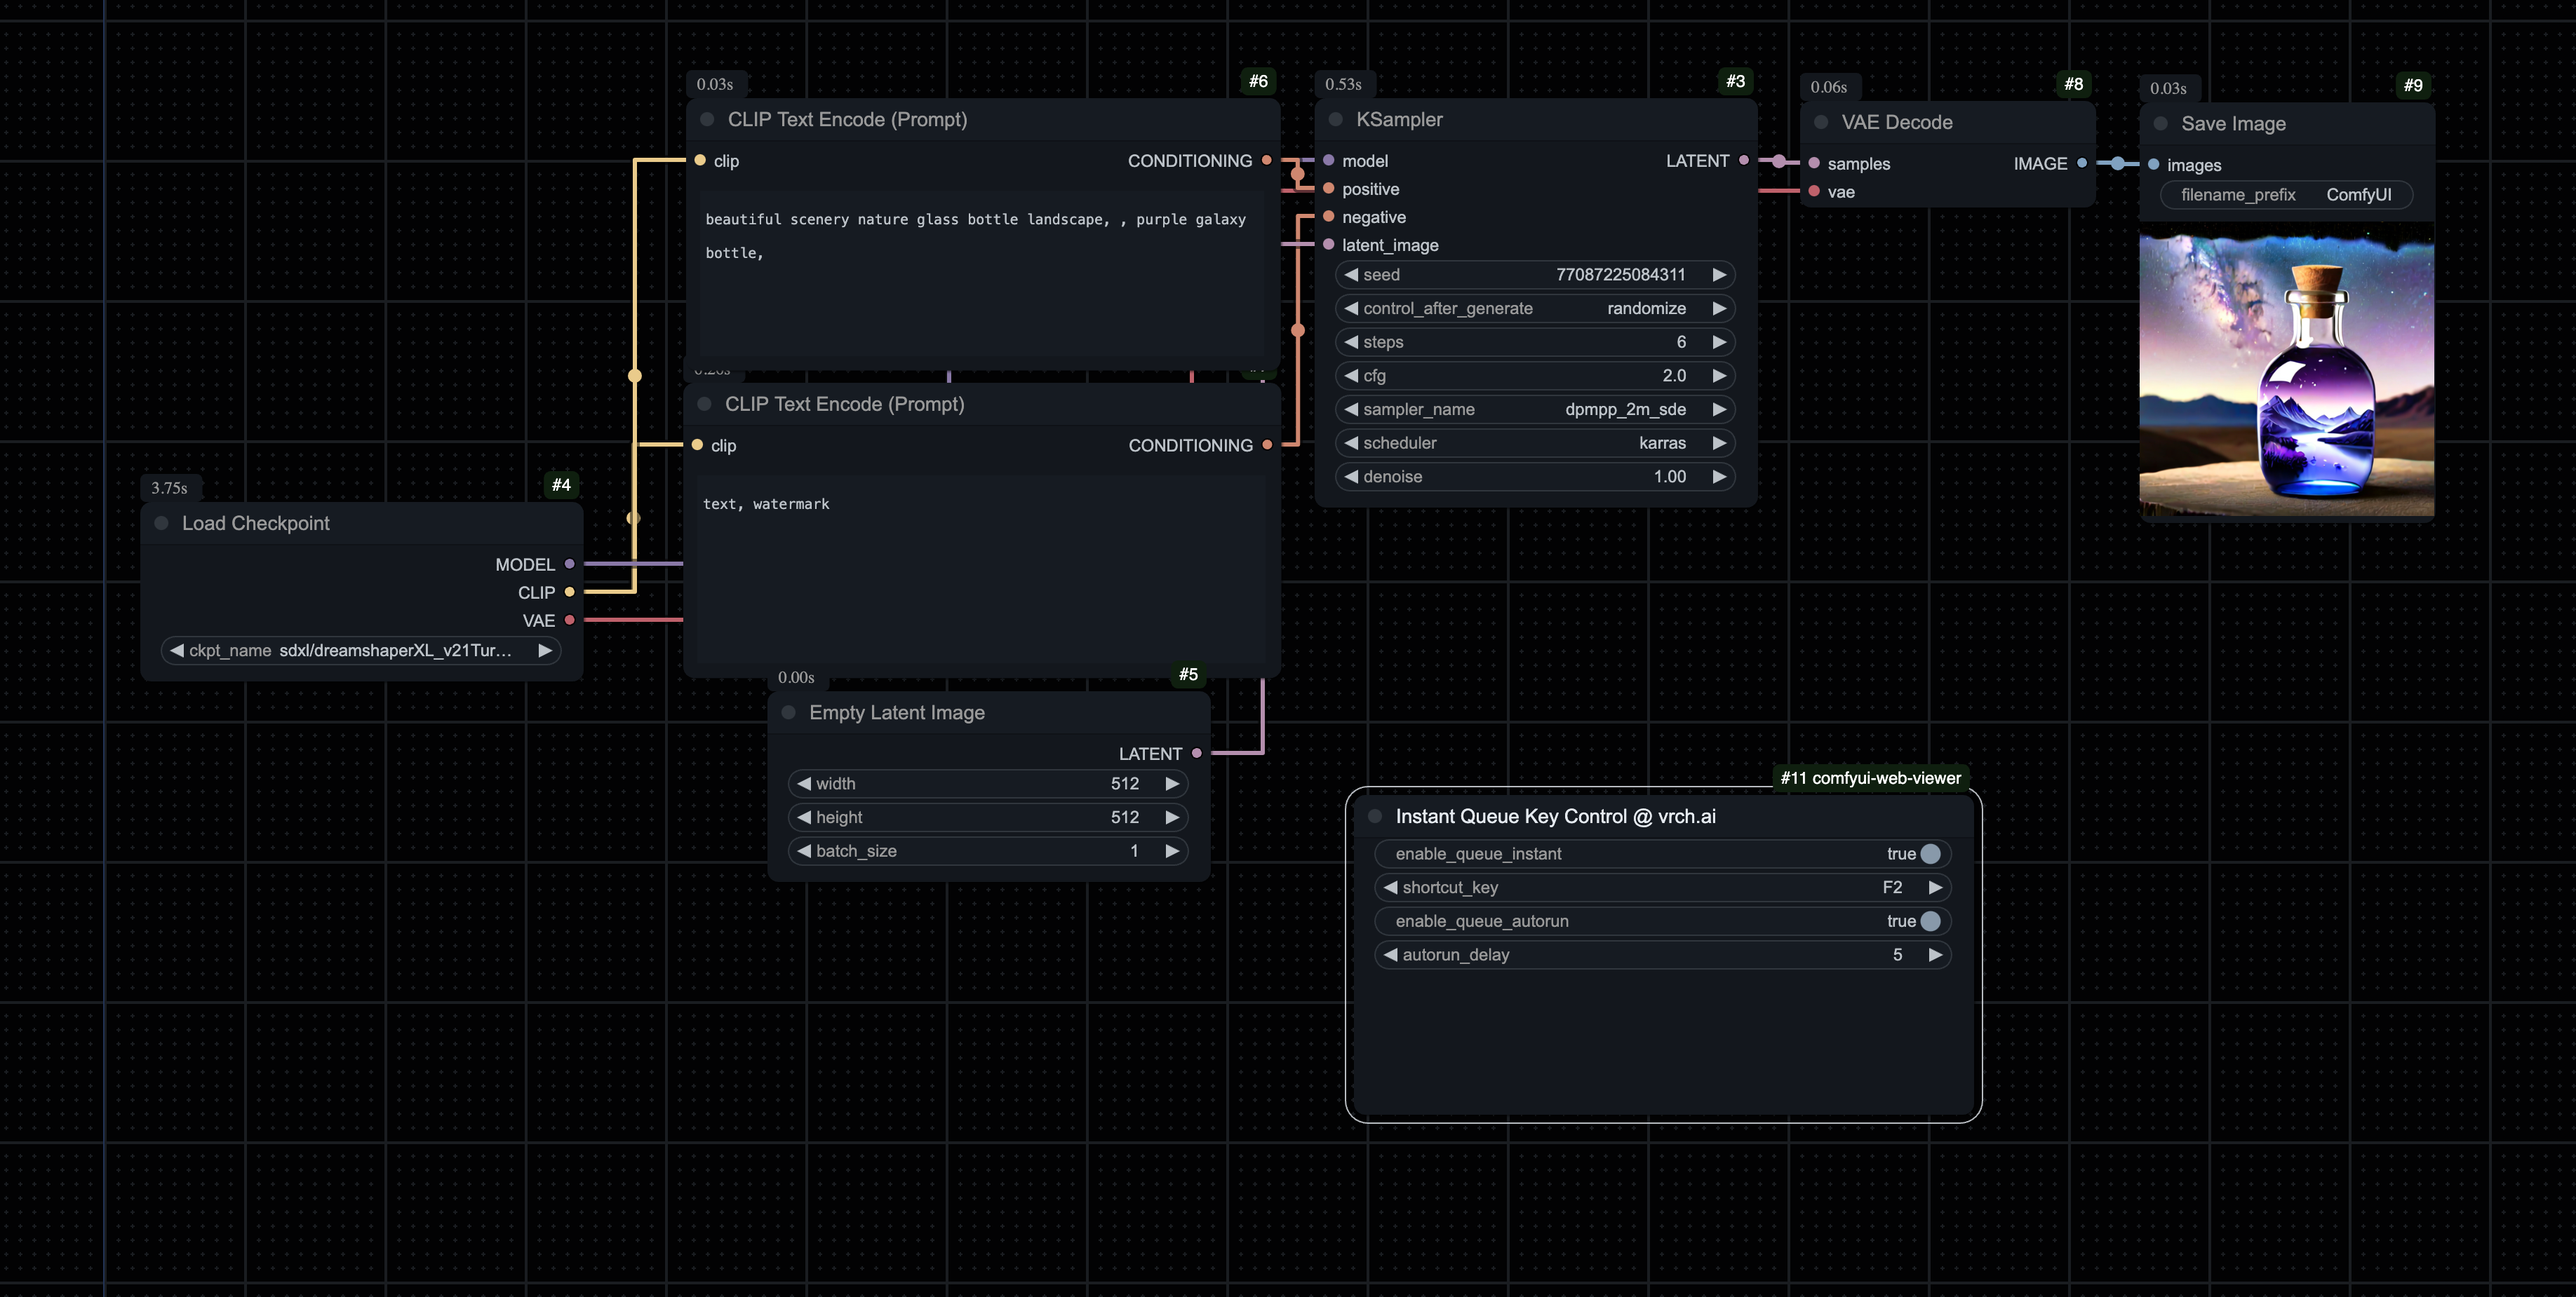
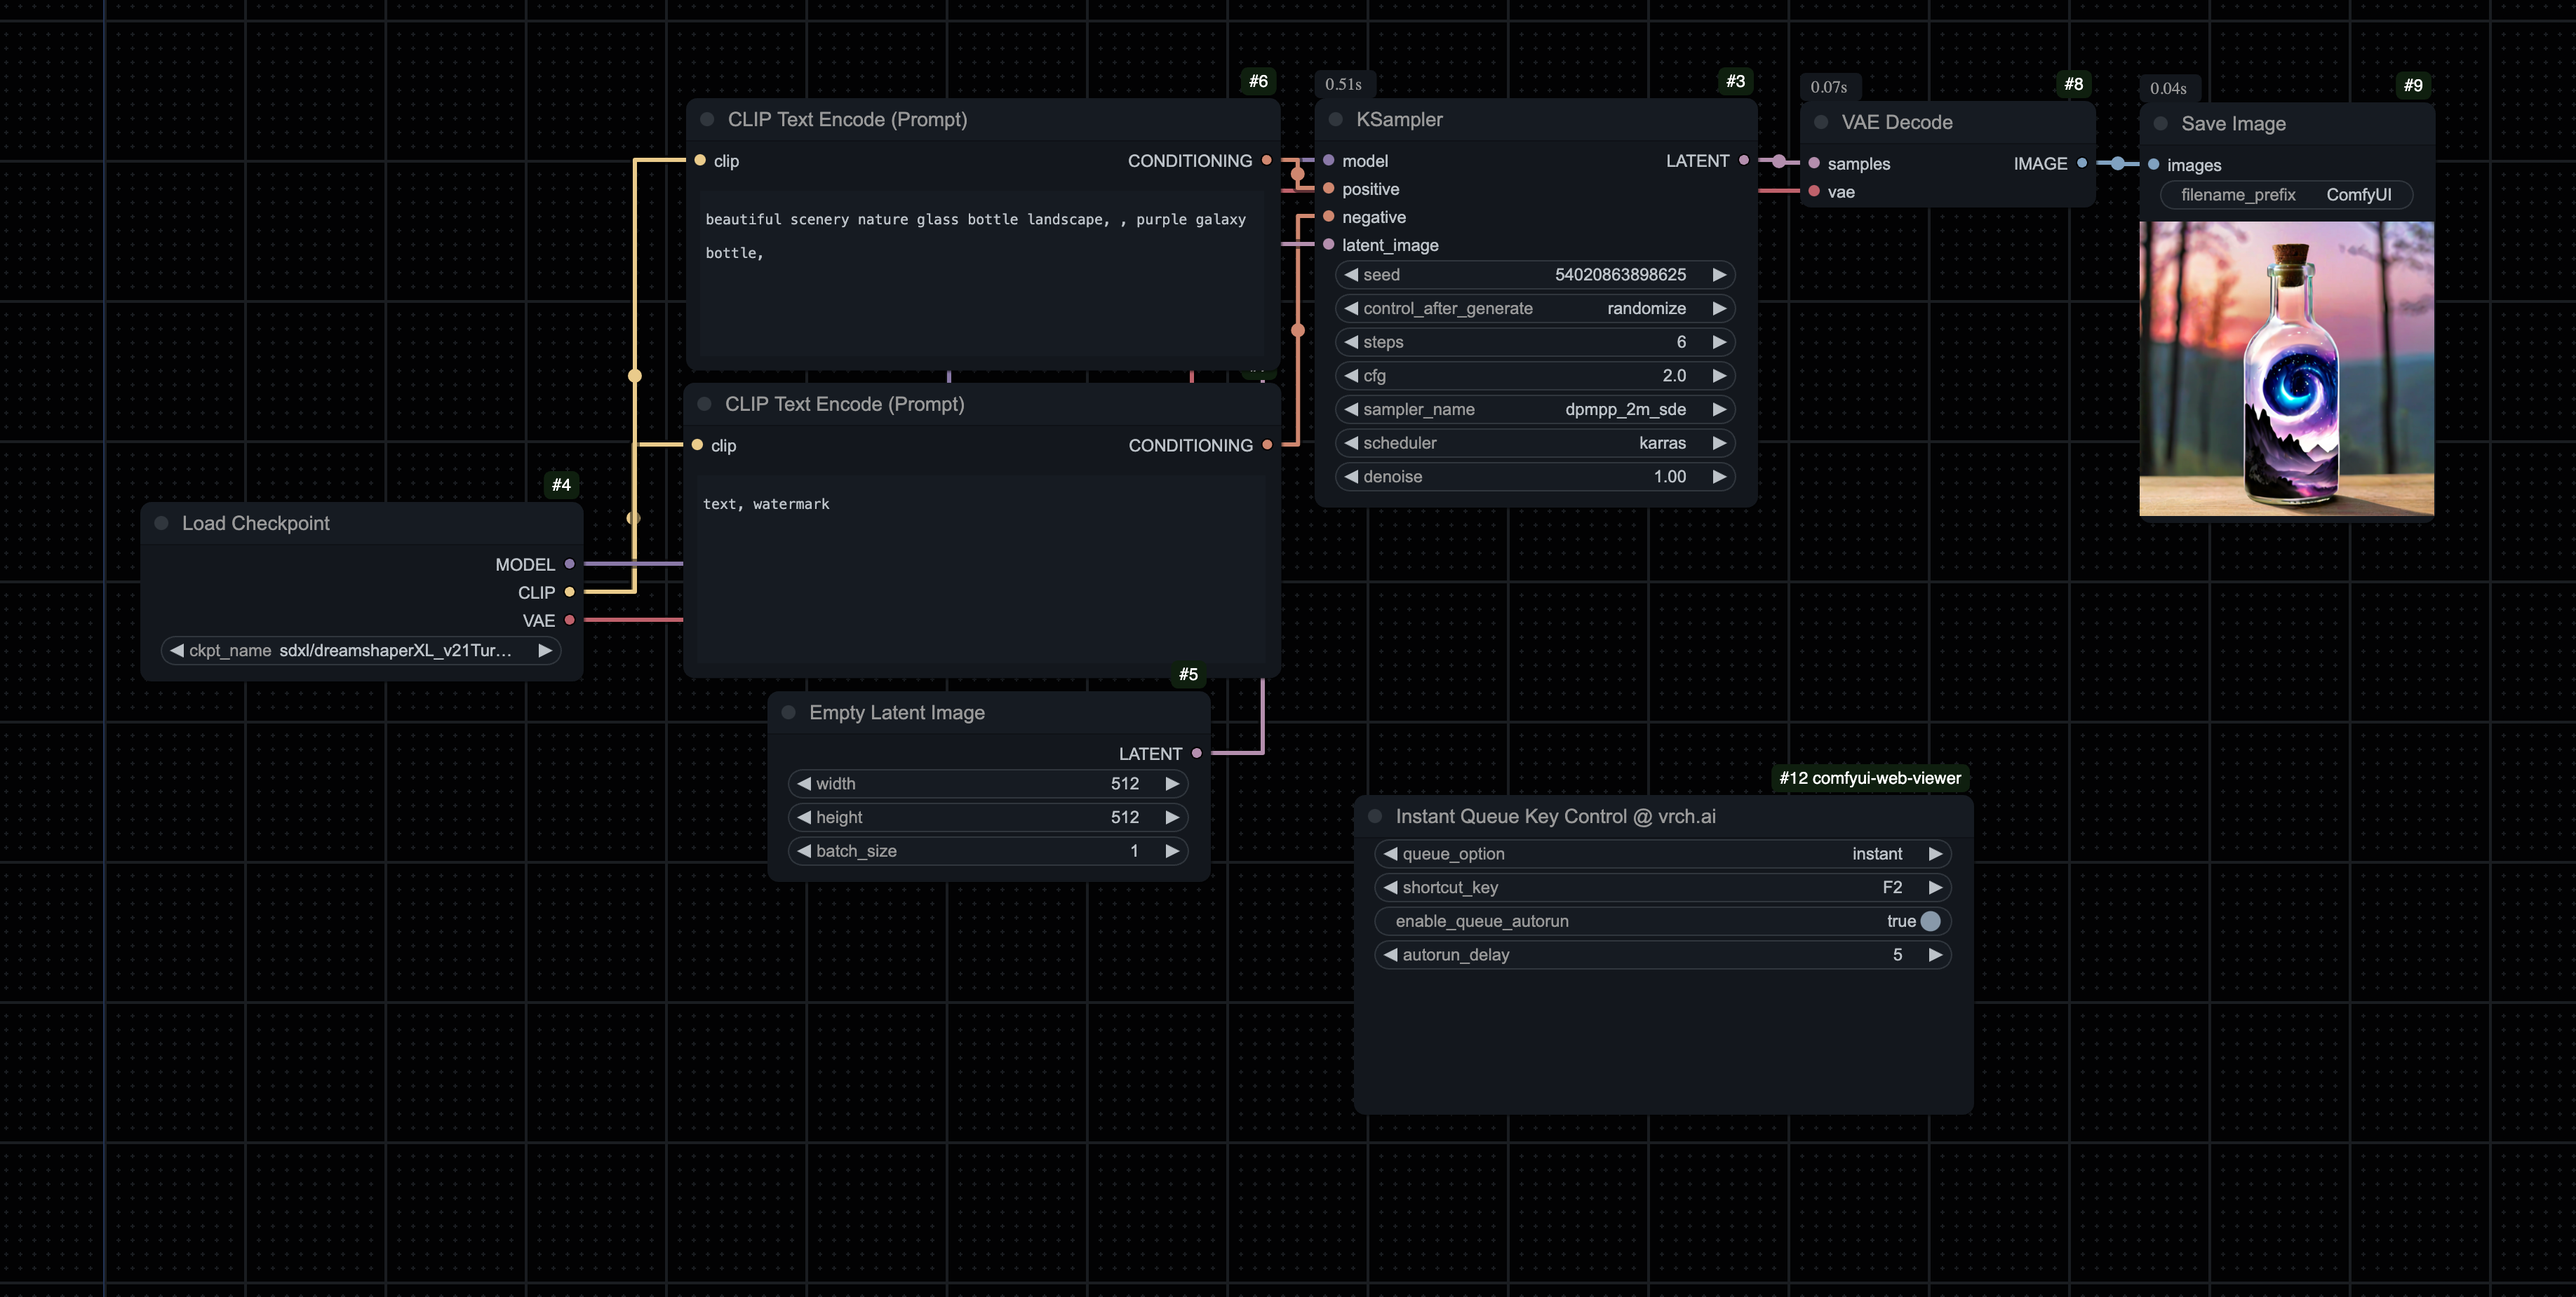
update workflow, screenshot and documentation

diff --git a/docs/key_control_nodes.md b/docs/key_control_nodes.md
@@ -110,15 +110,15 @@ Ensure the ComfyUI window/tab is focused when using the shortcut key to prevent 
 1. **Add the `Instant Queue Key Control @ vrch.ai` to your ComfyUI workflow.**
 
 2. **Configure the Node:**
-   - **Enable Queue Instant (`enable_queue_instant`):** Sets the initial state of the instant queue toggle. Default is `False`.
-   - **Shortcut Key (`shortcut_key`):** Select a function key (`F1` to `F12`) as the shortcut key to toggle the instant queue functionality on or off. Default is `F2`.
+   - **Queue Option (`queue_option`):** Options of the initial state of the queue status, including `once`, `instant` and `change`. Default is `instant`.
+   - **Shortcut Key (`shortcut_key`):** Select a function key (`F1` to `F12`) as the shortcut key to switch the queue option from one to another. Default is `F2`.
    - **Enable Queue Autorun (`enable_queue_autorun`):** Toggle whether the queue will automatically run after a delay when activated. Default is `False`.
    - **Autorun Delay (`autorun_delay`):** Sets the delay (in seconds) before the queue automatically triggers when `enable_queue_autorun` is enabled. The value ranges from 1 to 60 seconds, with a default of 5 seconds.
 
-3. **Toggle Instant Queue:**
+3. **Toggle Queue Option:**
    - **Using Shortcut Key:**
-     - Pressing the chosen `shortcut_key` (e.g., `F2`) toggles the `enable_queue_instant` state between **Enabled** and **Disabled**.
-     - Each press of the shortcut key switches the state, allowing for easy control over the instant queue function without manually adjusting the `enable_queue_instant` setting.
+     - Pressing the chosen `shortcut_key` (e.g., `F2`) toggles the `queue_option` option between `once`, `instant` and `change`.
+     - Each press of the shortcut key switches the state, allowing for easy control over the instant queue function without manually adjusting the `queue_option` setting.
 
 4. **Display and Output:**
    - The node displays the current status of the instant queue (either **Enabled** or **Disabled**) within its UI.
